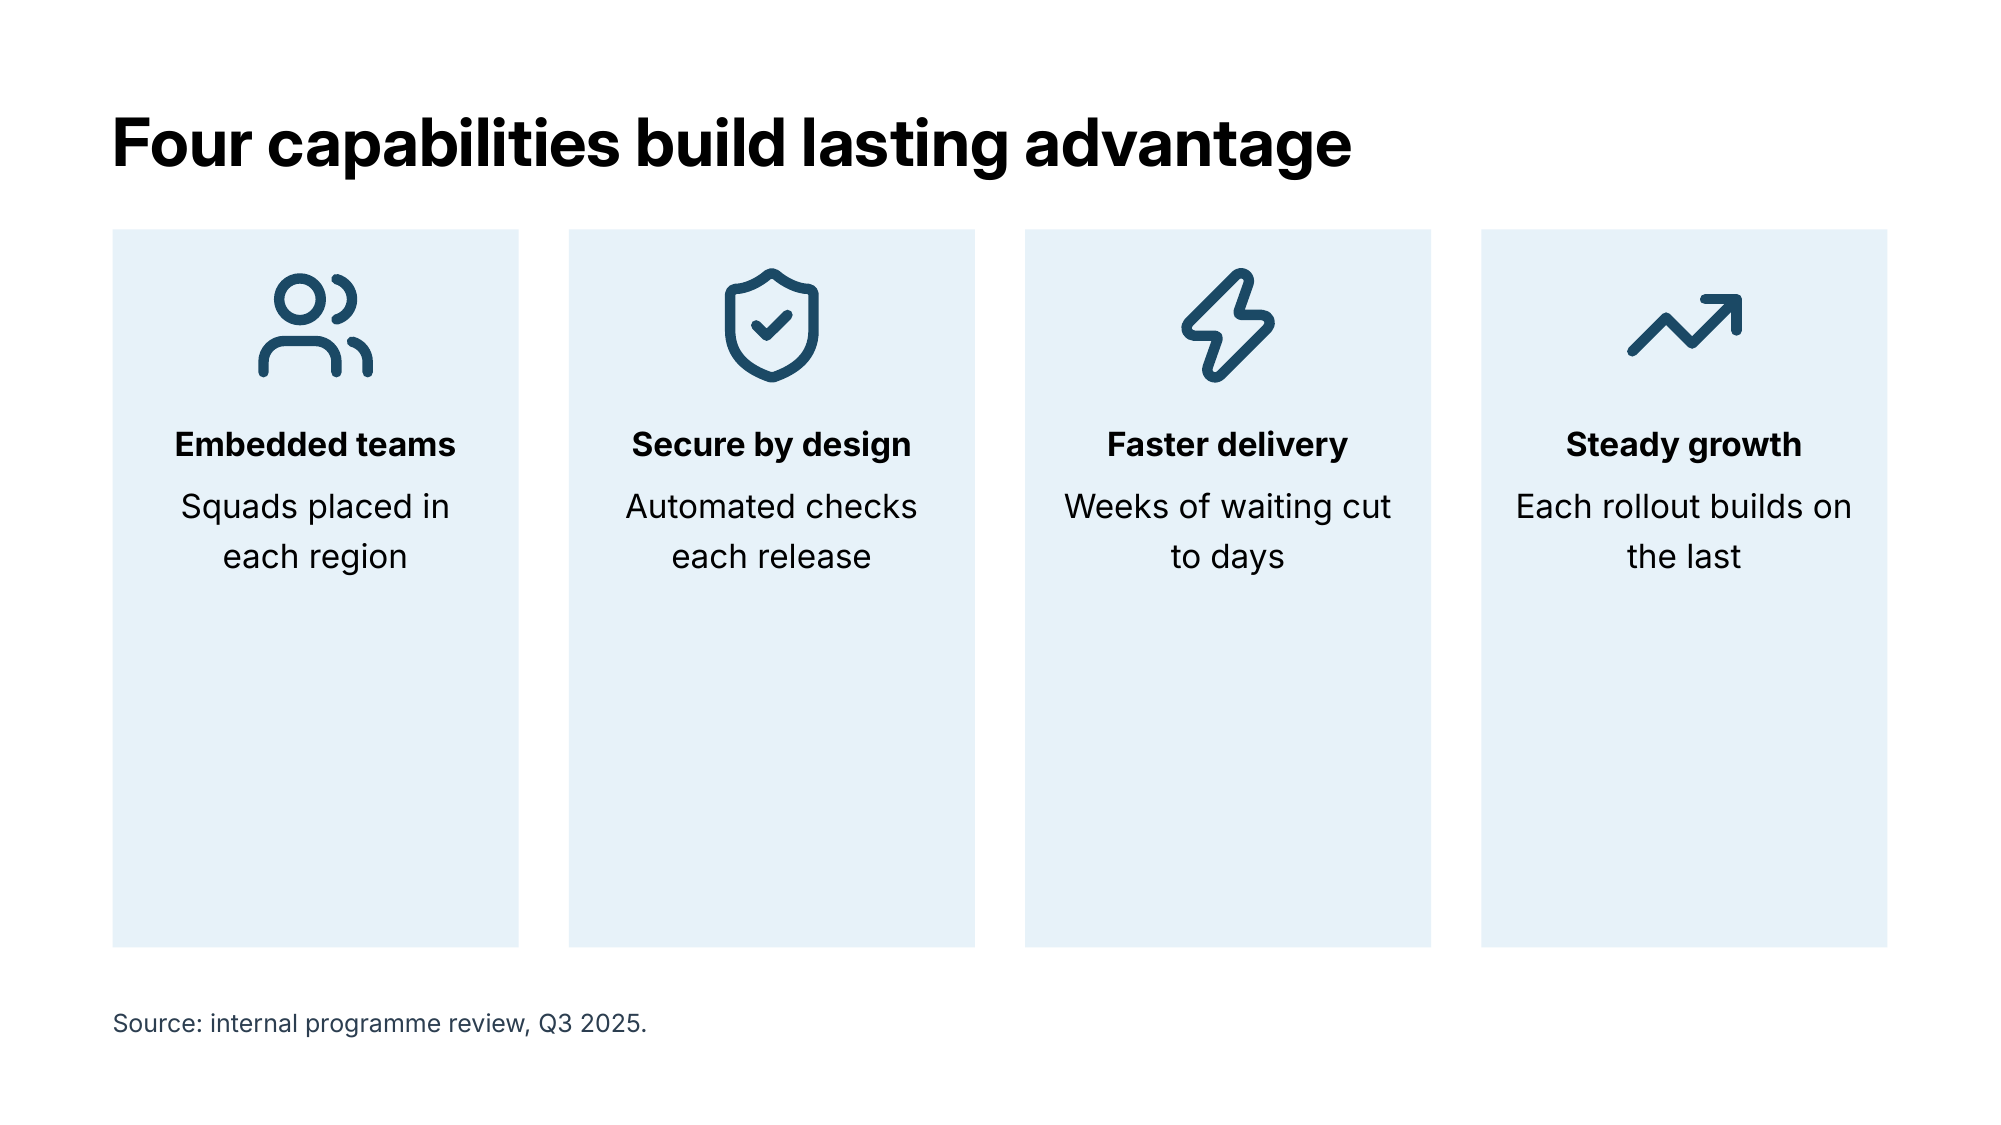
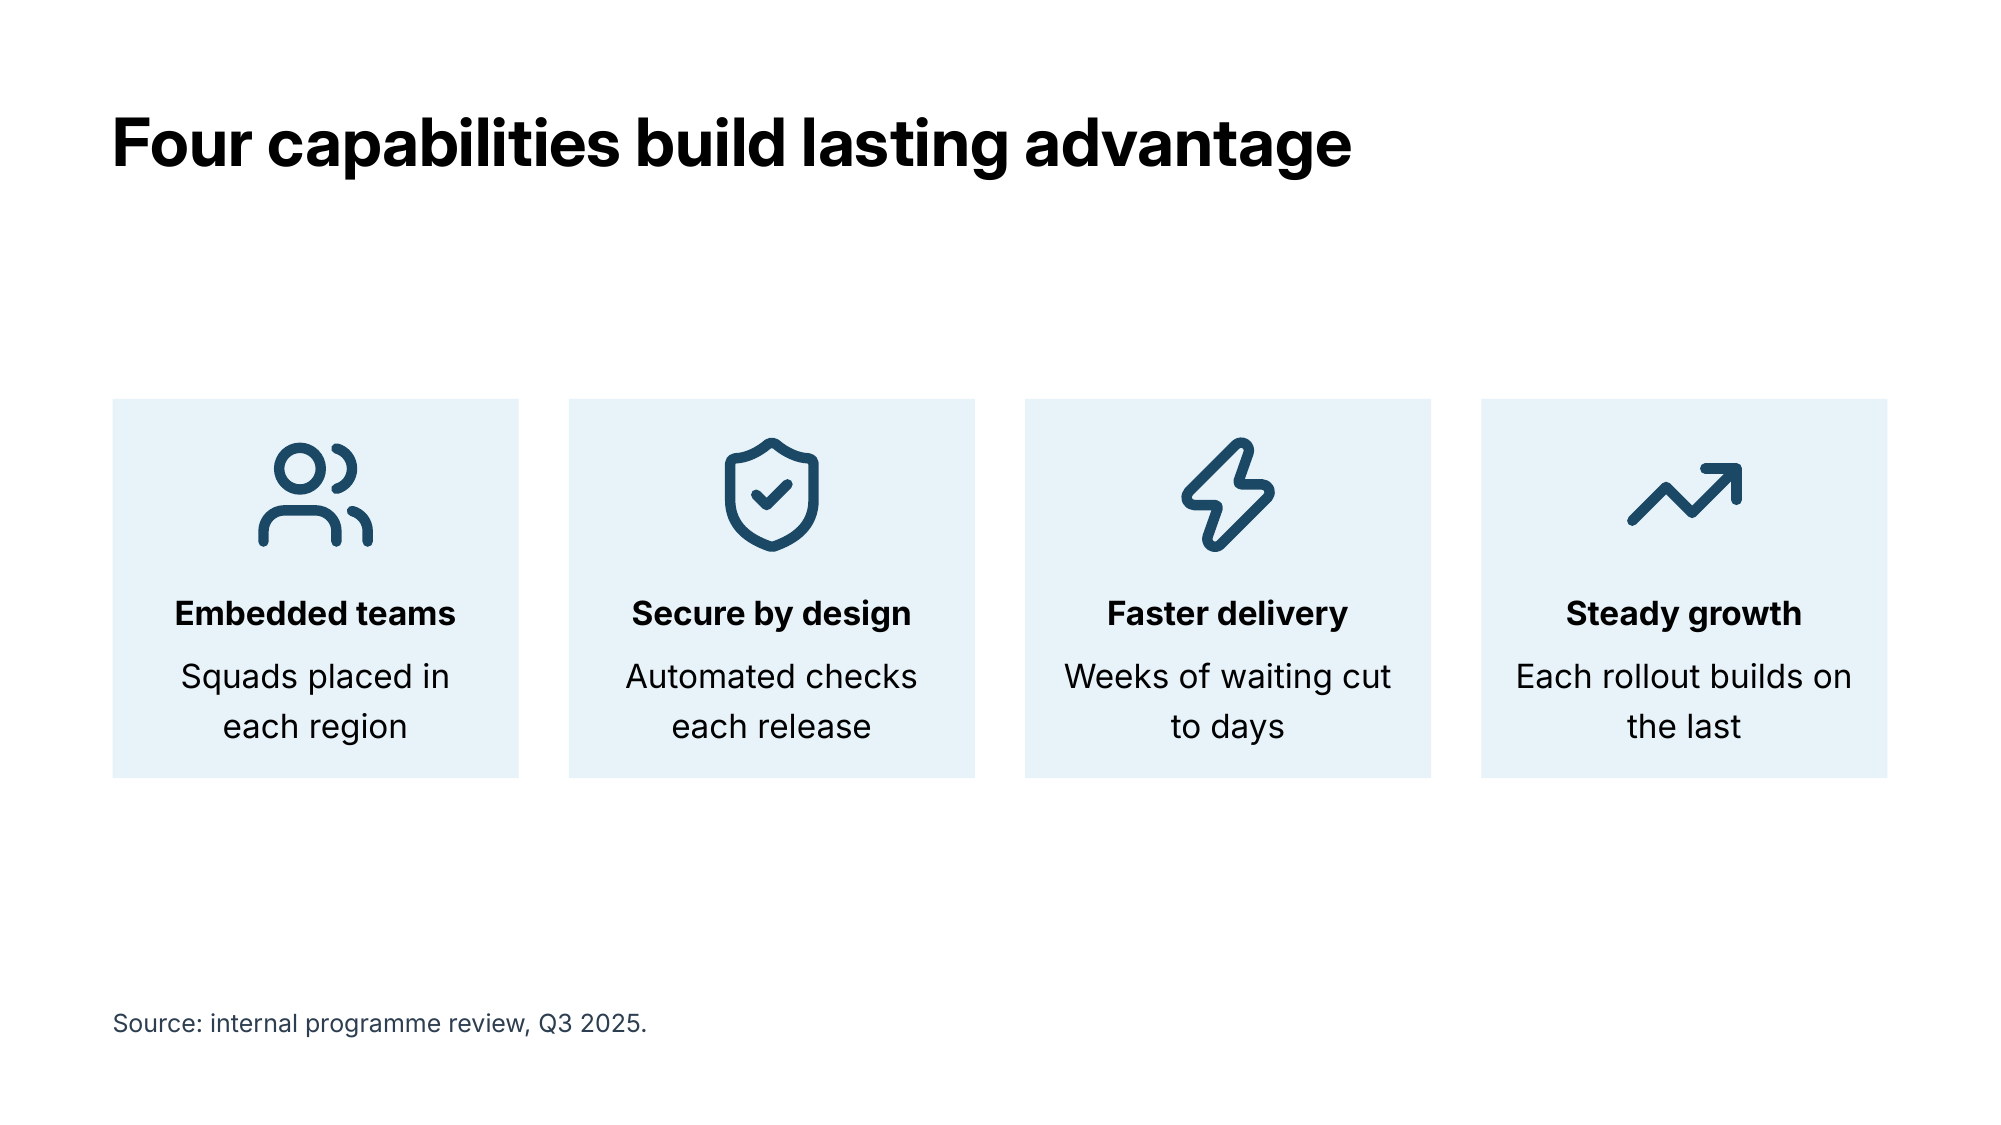
feat(B35): icon_pillars panels hug their content and the row is centred
All panels share one height (tallest stack plus padding top and bottom); the row
is vertically centred under the headline; content stays top-aligned in each
panel. Panel-geometry test updated; preview regenerated, others byte-identical.

Claude-Session: https://claude.ai/code/session_01HwPMQ7awBPwAkMiPuj8oJV

diff --git a/autodeck/design/components/renderers/icon_pillars.py b/autodeck/design/components/renderers/icon_pillars.py
@@ -7,13 +7,14 @@ no component could place an icon on a slide face at all (B35).
 
 Structure: a headline across the top; below it, the body split into equal columns, one per
 pillar. Each column is a tinted panel (the accent at 0.92 brightness, as `data_card_grid`'s
-cards are) that runs the full height of the region under the headline, so the pillars read
-as a set of equal-height slabs rather than a row of loose items. Inside each panel the
-content is top-aligned with `data_card_grid`'s card padding: the icon, then its label
-directly beneath, then an optional point of up to two lines. Because every stack starts at
-the panel's top edge, the icons share one top edge across the slide, whatever the labels
-and points below them do. The icon and its label are drawn in **one stack**, so their
-adjacency is a construction fact, not a geometric coincidence
+cards are) that hugs its content: all panels share one height, the tallest pillar's stack
+plus `data_card_grid`'s card padding above and below, so the pillars read as a set of
+equal-height cards. The row of panels is centred vertically in the region under the
+headline (above the caption band). Inside each panel the content is top-aligned: the icon,
+then its label directly beneath, then an optional point of up to two lines. Because every
+stack starts at its panel's top edge, the icons share one top edge across the slide,
+whatever the labels and points below them do. The icon and its label are drawn in **one
+stack**, so their adjacency is a construction fact, not a geometric coincidence
 `grammar.check_icon_adjacency` has to infer (that module's docstring names the missing
 structural pairing; this is it for this component).
 
@@ -95,14 +96,17 @@ def render(slide: Slide, canvas: Canvas, content: IconPillarsContent) -> None:
       - `frame.body_and_caption()`; headline as `data_card_grid` does (title style, major
         face, bold), placed with `gutter=canvas.baseline * 4`; `content.source` in the
         caption band exactly as the other cited components write it.
-      - The region below splits into `len(content.pillars)` equal columns with
-        `canvas.gutter` between (`Box.grid(1, n, ...)`); each column is the full height of
-        the region, down to the caption band.
+      - Every pillar's stack is declared first, `column.pad(PANEL_PADDING)` wide. The panel
+        height is `max(stack.height) + 2 * PANEL_PADDING`, the same for every panel. That
+        band is reserved **vertically centred** in the region under the headline
+        (`Box.reserve(..., valign="middle")`, so overflow raises `LayoutOverflowError`) and
+        split into `len(content.pillars)` equal columns with `canvas.gutter` between
+        (`Box.grid(1, n, ...)`).
       - Each column is a panel: `frame.rect(column, fill=pillar.icon.color,
-        fill_brightness=0.92)`. Its content is one `frame.stack(f"icon_pillars pillar {i}",
-        ...)`, `column.pad(PANEL_PADDING)` wide, placed **top-aligned** in the padded panel
-        (no vertical centring), holding, top to bottom, the icon (square,
-        `_ICON_BASELINES * canvas.baseline`, centred), the label
+        fill_brightness=0.92)`. Its content is that pillar's `frame.stack(
+        f"icon_pillars pillar {i}", ...)`, placed **top-aligned** in `column.pad(
+        PANEL_PADDING)` (no vertical centring inside a panel), holding, top to bottom, the
+        icon (square, `_ICON_BASELINES * canvas.baseline`, centred), the label
         (`canvas.style("body", bold=True)`, centred), and the point when present
         (`canvas.style("body")`, centred). The icon is added with
         `stack.icon(pillar.icon.glyph, ...)`, which draws that vendored file directly.
@@ -128,12 +132,20 @@ def render(slide: Slide, canvas: Canvas, content: IconPillarsContent) -> None:
     headline.text(content.headline, canvas.style("title", face="major", bold=True))
     region = headline.place(body, gutter=canvas.baseline * 4)
 
-    columns = region.grid(1, count, gutter=canvas.gutter)[0]
-    for index, (pillar, column) in enumerate(zip(content.pillars, columns, strict=True)):
+    # Column width is known before the band's height is, so every stack is declared first:
+    # the panels must all be as tall as the tallest of them.
+    column_width = region.grid(1, count, gutter=canvas.gutter)[0][0].width
+    stacks = [
+        _pillar_stack(frame, canvas, index, pillar, column_width - 2 * PANEL_PADDING)
+        for index, pillar in enumerate(content.pillars)
+    ]
+    panel_height = max(stack.height for stack in stacks) + 2 * PANEL_PADDING
+    band = region.reserve(panel_height, valign="middle", what="icon_pillars panels")
+
+    columns = band.grid(1, count, gutter=canvas.gutter)[0]
+    for pillar, stack, column in zip(content.pillars, stacks, columns, strict=True):
         frame.rect(column, fill=pillar.icon.color, fill_brightness=_PANEL_BRIGHTNESS)
-        inner = column.pad(PANEL_PADDING)
-        stack = _pillar_stack(frame, canvas, index, pillar, inner.width)
-        stack.place(inner, valign="top")
+        stack.place(column.pad(PANEL_PADDING), valign="top")
 
     frame.caption(caption, content.source)
 

diff --git a/tests/test_icon_pillars.py b/tests/test_icon_pillars.py
@@ -293,12 +293,12 @@ def test_an_unknown_glyph_file_is_refused_not_guessed(tmp_path: Path) -> None:
         _render_content(content, tmp_path)
 
 
-def test_each_pillar_is_a_full_height_tinted_panel_with_top_aligned_content(
+def test_panels_hug_the_tallest_stack_and_the_row_is_centred_under_the_headline(
     tmp_path: Path,
 ) -> None:
-    """One panel per pillar, all the same height and running down to the caption band; the
-    pillar's icon starts a fixed padding below its panel's top edge, whatever its label and
-    point do."""
+    """One panel per pillar, all the same height - the tallest pillar's stack plus padding
+    top and bottom - and the row is vertically centred in the region under the headline.
+    Each pillar's icon starts a fixed padding below its panel's top edge."""
     tokens = tokens_for()
     canvas = Canvas(tokens)
     body, _ = canvas.body_and_caption()
@@ -306,18 +306,31 @@ def test_each_pillar_is_a_full_height_tinted_panel_with_top_aligned_content(
     slide = _render_content(content, tmp_path).slides[0]
 
     panels = sorted(
-        (
-            s
-            for s in slide.shapes
-            if s.name.startswith("Rectangle") or s.name.startswith("Rect")
-        ),
-        key=lambda s: s.left,
+        (s for s in slide.shapes if s.name.startswith("Rect")), key=lambda s: s.left
     )
     assert len(panels) == 4
     assert len({round(p.height.pt, 1) for p in panels}) == 1
-    assert all(round(p.top.pt, 1) == round(panels[0].top.pt, 1) for p in panels)
-    assert panels[0].top.pt + panels[0].height.pt == pytest.approx(body.bottom, abs=0.5)
-    assert panels[0].height.pt > body.height / 2  # fills the region, not a content-sized chip
+    assert len({round(p.top.pt, 1) for p in panels}) == 1
+
+    # Expected height: tallest stack + 2 x padding, measured independently of the renderer.
+    frame = canvas.on(
+        new_presentation(tokens).slides.add_slide(new_presentation(tokens).slide_layouts[6])
+    )
+    inner_width = panels[0].width.pt - 2 * icon_pillars.PANEL_PADDING
+    heights = [
+        icon_pillars._pillar_stack(frame, canvas, i, pillar, inner_width).height
+        for i, pillar in enumerate(content.pillars)
+    ]
+    expected = max(heights) + 2 * icon_pillars.PANEL_PADDING
+    assert panels[0].height.pt == pytest.approx(expected, abs=0.5)
+    assert panels[0].height.pt < body.height / 2  # hugs content; not a full-height slab
+
+    # Centred in the region between the headline's bottom and the caption band's top.
+    headline = frame.stack("h", body.width)
+    headline.text(content.headline, canvas.style("title", face="major", bold=True))
+    region = headline.place(body, gutter=canvas.baseline * 4)
+    row_centre = panels[0].top.pt + panels[0].height.pt / 2
+    assert row_centre == pytest.approx(region.y + region.height / 2, abs=0.5)
 
     for panel, (left, top, width, _height) in zip(panels, _icon_boxes(slide), strict=True):
         assert top == pytest.approx(panel.top.pt + icon_pillars.PANEL_PADDING, abs=0.5)
